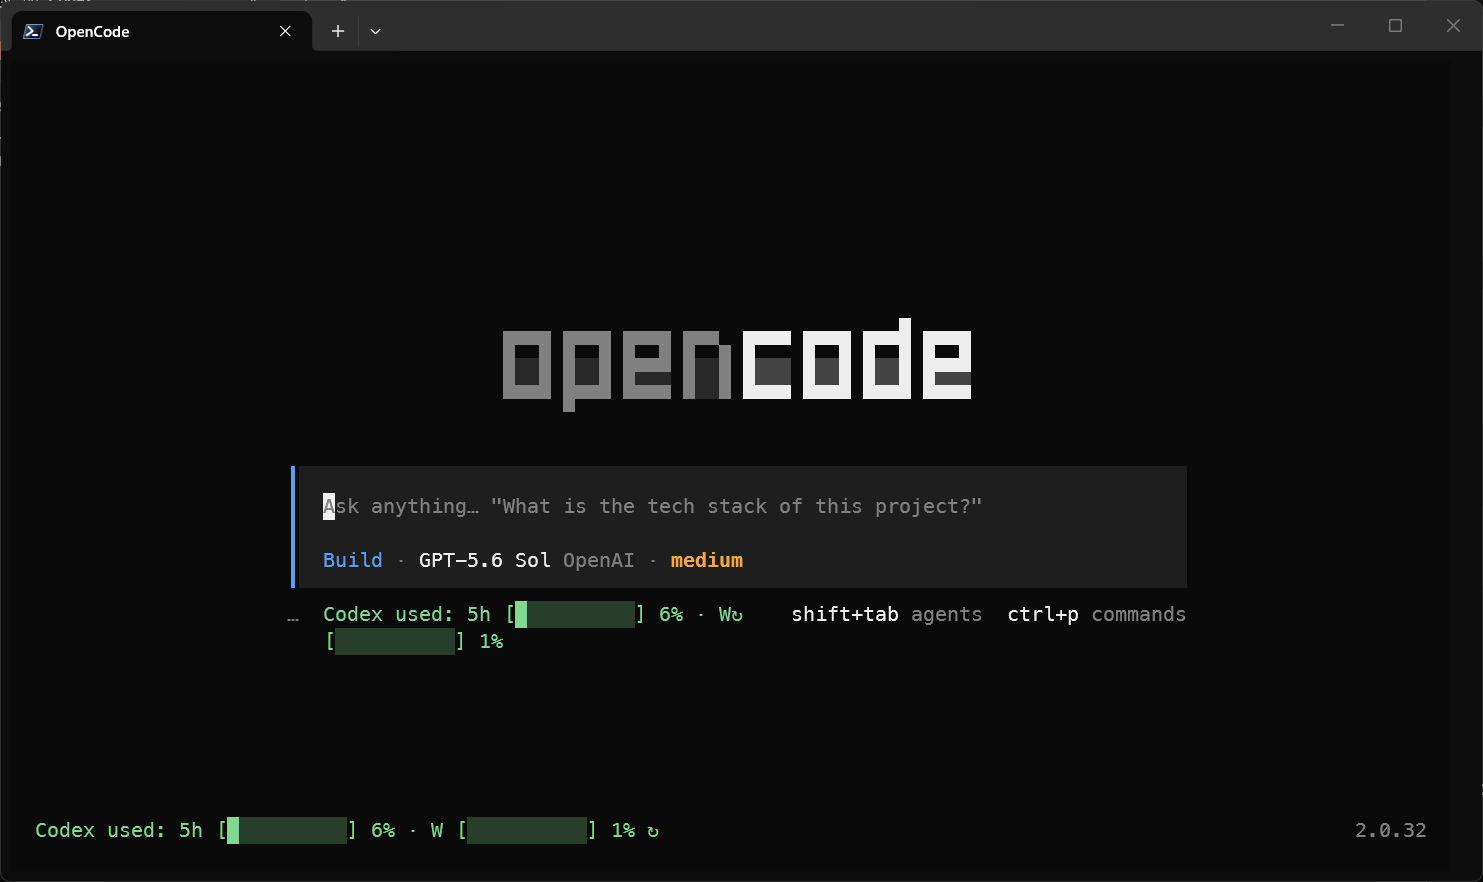
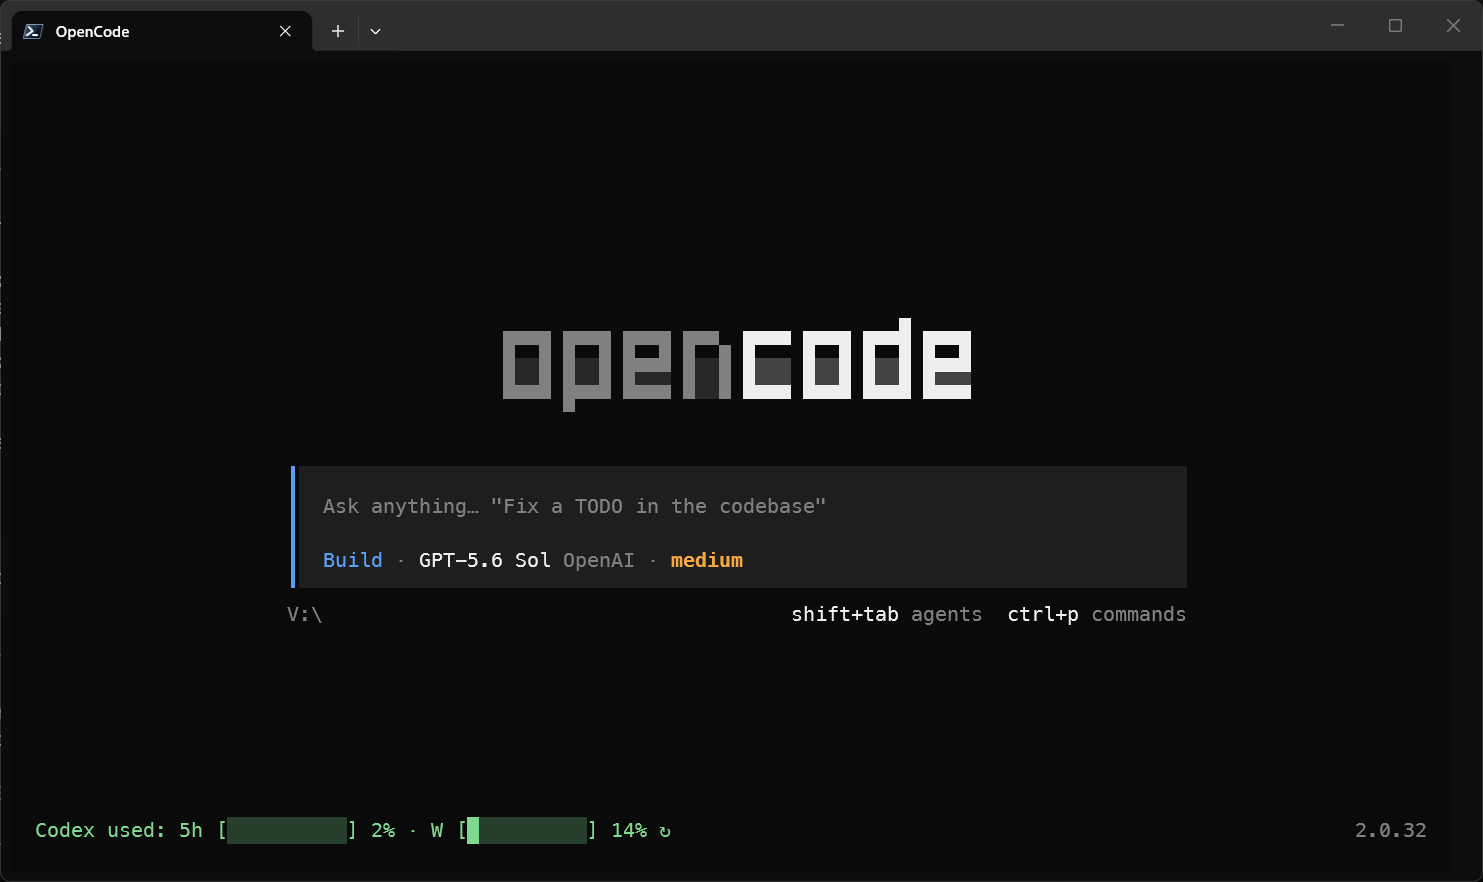
Avoid duplicate quota control on home screen

diff --git a/src/tui.tsx b/src/tui.tsx
@@ -1,7 +1,7 @@
 import { Plugin } from "@opencode/plugin/tui"
 import { createSignal } from "solid-js"
 import { resolveConfig } from "./config"
-import { nextDisplayMode, normalizeMode, refreshGlyph } from "./mode"
+import { hasActiveSession, nextDisplayMode, normalizeMode, refreshGlyph } from "./mode"
 import { formatBars, formatDetails, formatFooter, formatResets, parseQuota, type Quota } from "./quota"
 
 const REQUEST_TIMEOUT_MS = 10_000
@@ -104,7 +104,7 @@ export default Plugin.define({
     </box>
 
     context.ui.slot({ append: "home.footer.status", render: () => <Status /> })
-    context.ui.slot({ append: "prompt.footer.status", render: () => <Status /> })
+    context.ui.slot({ append: "prompt.footer.status", render: ({ sessionID }) => hasActiveSession(sessionID) ? <Status /> : null })
     context.keymap.layer(() => ({
       mode: "global",
       commands: [{

diff --git a/test/mode.test.ts b/test/mode.test.ts
@@ -1,0 +1,10 @@
+import { describe, expect, test } from "bun:test"
+import { hasActiveSession } from "../src/mode"
+
+describe("prompt footer visibility", () => {
+  test("hides without a session and shows for an active session", () => {
+    expect(hasActiveSession(undefined)).toBe(false)
+    expect(hasActiveSession("")).toBe(false)
+    expect(hasActiveSession("session-123")).toBe(true)
+  })
+})

diff --git a/src/mode.ts b/src/mode.ts
@@ -1,5 +1,9 @@
 export type DisplayMode = "compact" | "bars" | "resets"
 
+export function hasActiveSession(sessionID: string | undefined): boolean {
+  return Boolean(sessionID)
+}
+
 export function refreshGlyph(refreshing: boolean): string {
   return refreshing ? "⟳" : "↻"
 }

diff --git a/README.md b/README.md
@@ -1,6 +1,6 @@
 # OpenCode Codex Quota
 
-An unofficial OpenCode V2 TUI plugin showing **Codex quota used** for the 5-hour and weekly windows in the home and prompt footers. Click the quota text in either footer to cycle compact used percentages → graphical used progress bars → reset timing → compact. The choice persists across OpenCode restarts and is synchronized between both footers and TUI instances. By default, the display is compact. The **Cycle Codex quota display** palette command (`codex-quota.toggle-display`) cycles the same views from the keyboard. Click the separate `↻` beside the text to force a refresh in place without changing the view or opening a dialog (`⟳` indicates a request in progress). Press `/quota` to force a refresh and inspect the plan, used percentages, and full reset details.
+An unofficial OpenCode V2 TUI plugin showing **Codex quota used** for the 5-hour and weekly windows. At startup it displays once in the home footer; in active sessions it displays in the prompt footer, never both. Click the quota text to cycle compact used percentages → graphical used progress bars → reset timing → compact. The choice persists across OpenCode restarts and TUI instances. By default, the display is compact. The **Cycle Codex quota display** palette command (`codex-quota.toggle-display`) cycles the same views from the keyboard. Click the separate `↻` beside the text to force a refresh in place without changing the view or opening a dialog (`⟳` indicates a request in progress). Press `/quota` to force a refresh and inspect the plan, used percentages, and full reset details.
 
 ```text
 Codex used: 5h 52% · Week 37%  ↻
